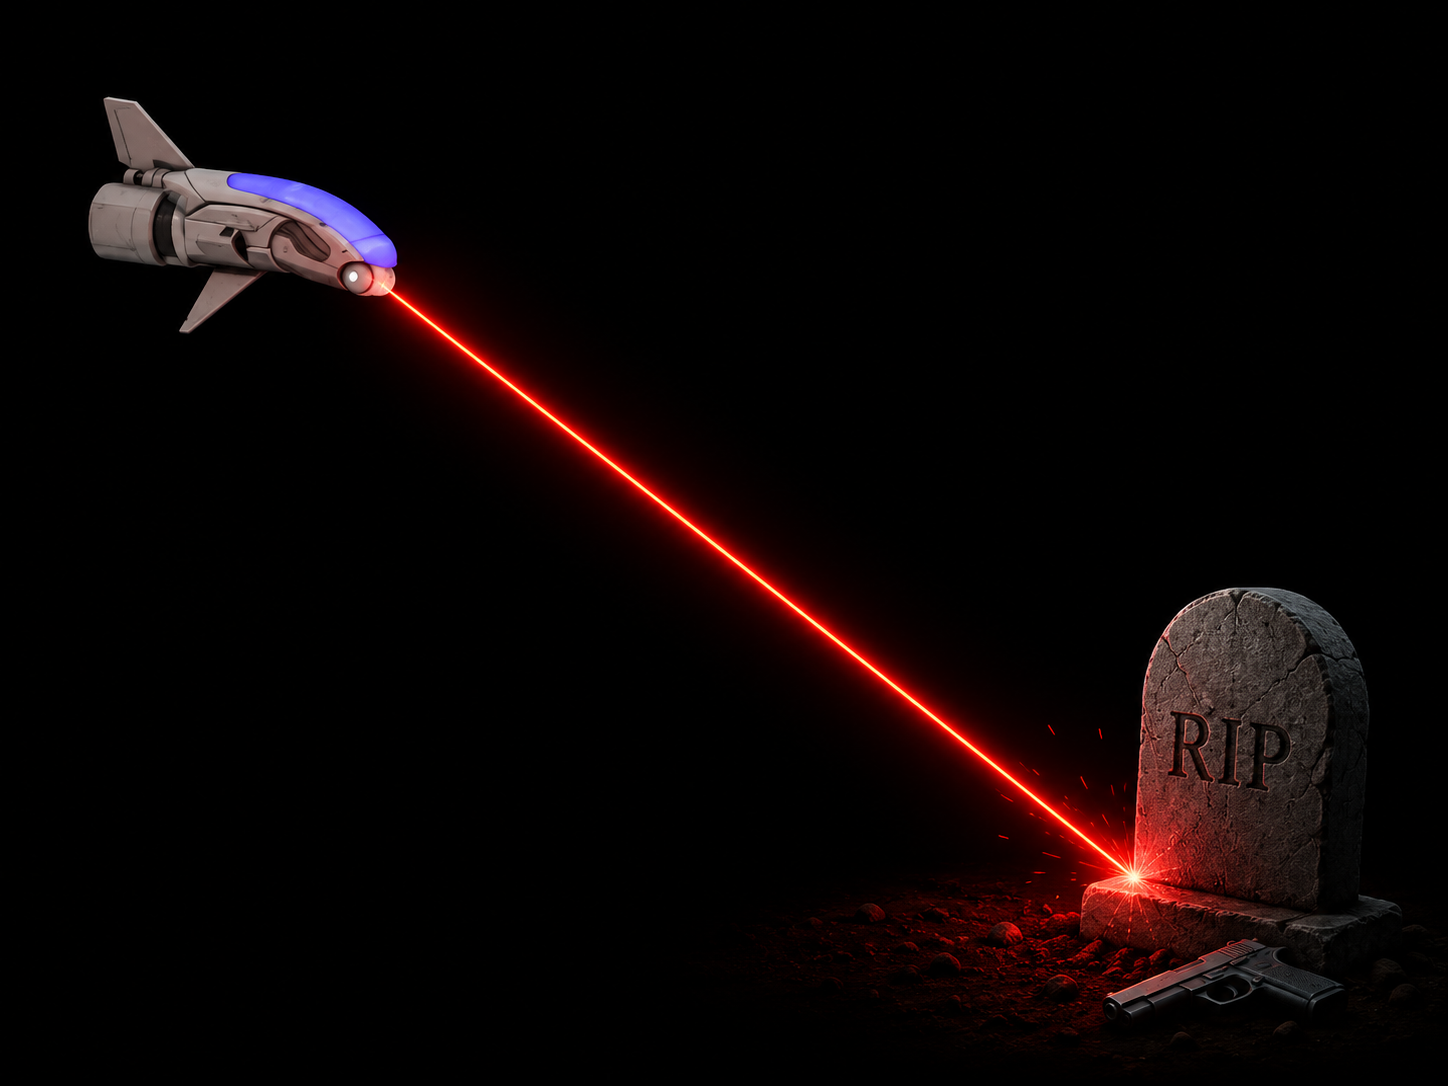
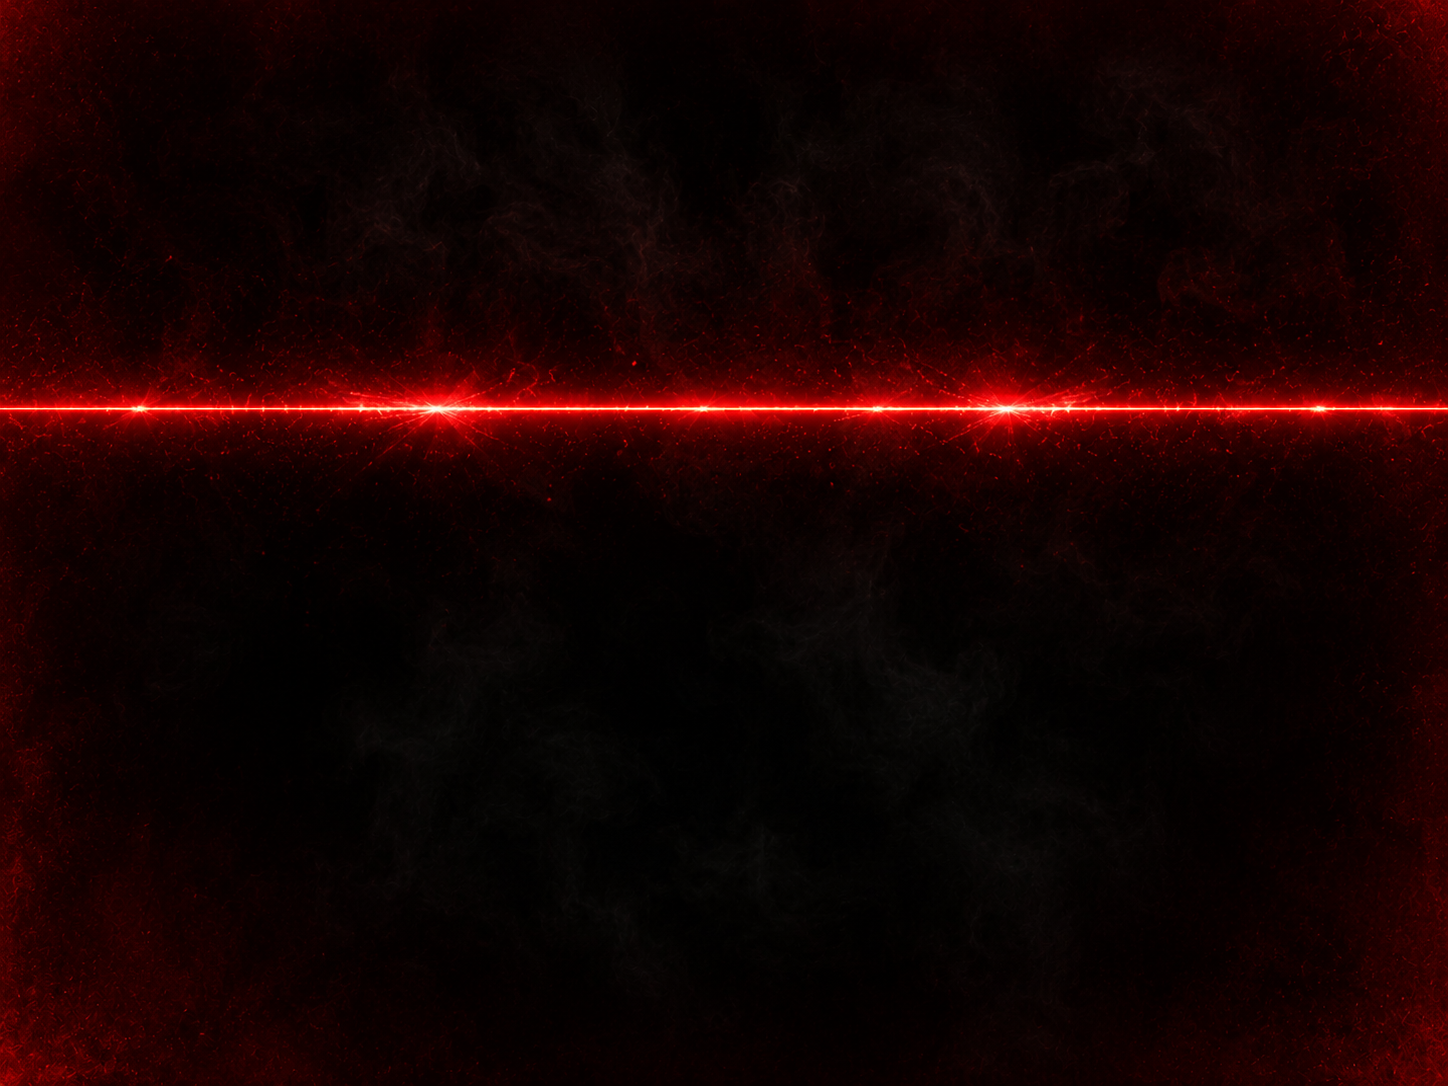
update ending screen: new background, different text layout + add text measure method to easily center align text without hardcoding based on screen size

diff --git a/src/hud.cpp b/src/hud.cpp
@@ -108,9 +108,6 @@ void inGameScreen(TextRenderer &tr, Player &player)
 
 void endingScreen(TextRenderer &tr, Player &player)
 {
-    // update blink time
-    tr.blink += tr.deltaTime + 0.02; // add small offset to make text blink faster
-
     // render background image (lazy-initialized on first call)
     static ScreenRenderer renderer("shaders/screen.vert", "shaders/screen.frag");
     static unsigned int bgTexture = TextureFromFile("game_over.png", "resources/screens", true);
@@ -126,19 +123,23 @@ void endingScreen(TextRenderer &tr, Player &player)
     // also calculate text scale factor
     float textScale = std::min(xScale, yScale);
 
-    // game over with white border (FT_Stroker-generated outline)
-    tr.RenderTextBordered("Game  Over", 183.0f * xScale, 400.0f * yScale, 1.6f * textScale,
-                           glm::vec3(0.7f, 0.0f, 0.2f), glm::vec3(1.0f, 1.0f, 1.0f));
+    const glm::vec3 red(0.86f, 0.0f, 0.12f);
+    const glm::vec3 white(1.0f, 1.0f, 1.0f);
 
-    // add blinking effect
-    if (static_cast<int>(tr.blink) % 2 == 0)
-    {
-        tr.RenderTextBordered("Press  ENTER  to  play  again  or  ESC  to  quit",
-                               115.0f * xScale, 210.0f * yScale, 0.55f * textScale,
-                               glm::vec3(0.870f, 0.592f, 0.0348f), glm::vec3(1.0f, 1.0f, 1.0f));
-    }
+    auto centeredX = [&](std::string_view text, float scale) {
+        return (static_cast<float>(player.SCR_WIDTH) - tr.MeasureText(text, scale)) * 0.5f;
+    };
 
-    // kill count
-    std::string kill = "Kills:  " + std::to_string(player.getKills());
-    tr.RenderText(kill, 335.0f * xScale, 300.0f * yScale, 0.7f * textScale, glm::vec3(1.0f, 1.0f, 1.0f));
+    auto renderCenteredBordered = [&](std::string_view text, float y, float scale,
+                                      glm::vec3 fillColor, glm::vec3 borderColor) {
+        tr.RenderTextBordered(text, centeredX(text, scale), y * yScale, scale, fillColor, borderColor);
+    };
+
+    // The laser in the background sits slightly above center, so the title stays above it
+    // while the stats and actions form a centered stack below it.
+    renderCenteredBordered("GAME OVER", 430.0f, 1.75f * textScale, red, white);
+    renderCenteredBordered("KILLS", 292.0f, 0.62f * textScale, white, red);
+    renderCenteredBordered(std::to_string(player.getKills()), 215.0f, 1.22f * textScale, white, red);
+    renderCenteredBordered("[ENTER]    -    RESTART", 158.0f, 0.50f * textScale, white, red);
+    renderCenteredBordered("[ESC]    -    QUIT", 118.0f, 0.50f * textScale, white, red);
 }

diff --git a/src/text_renderer.cpp b/src/text_renderer.cpp
@@ -78,6 +78,20 @@ void TextRenderer::RenderText(std::string_view text, float x, float y, float sca
     glDisable(GL_BLEND);
 }
 
+float TextRenderer::MeasureText(std::string_view text, float scale) const
+{
+    float width = 0.0f;
+    for (char c : text)
+    {
+        if (c < 32 || c > 126)
+        {
+            continue;
+        }
+        width += static_cast<float>(characters[c - 32].Advance >> 6) * scale;
+    }
+    return width;
+}
+
 // Border stroke width in FreeType's 26.6 fixed-point format
 // (64 units = 1 pixel). FreeType uses this representation to
 // achieve sub-pixel precision for smoother text rendering.

diff --git a/include/text_renderer.h b/include/text_renderer.h
@@ -11,6 +11,7 @@
 #define __TEXT_RENDERER_H__
 
 #include <string>
+#include <string_view>
 
 #include <glad/glad.h>
 #include <GLFW/glfw3.h>
@@ -63,6 +64,15 @@ public:
      * @param color color of text.
      */
     void RenderText(std::string_view text, float x, float y, float scale, glm::vec3 color);
+
+    /**
+     * @brief Measures a line of text using the same glyph advances as RenderText.
+     *
+     * @param text text to measure.
+     * @param scale scale factor.
+     * @return width of the rendered text in screen pixels.
+     */
+    float MeasureText(std::string_view text, float scale) const;
 
     /**
      * @brief Renders text with a solid border using FT_Stroker-generated glyph outlines.